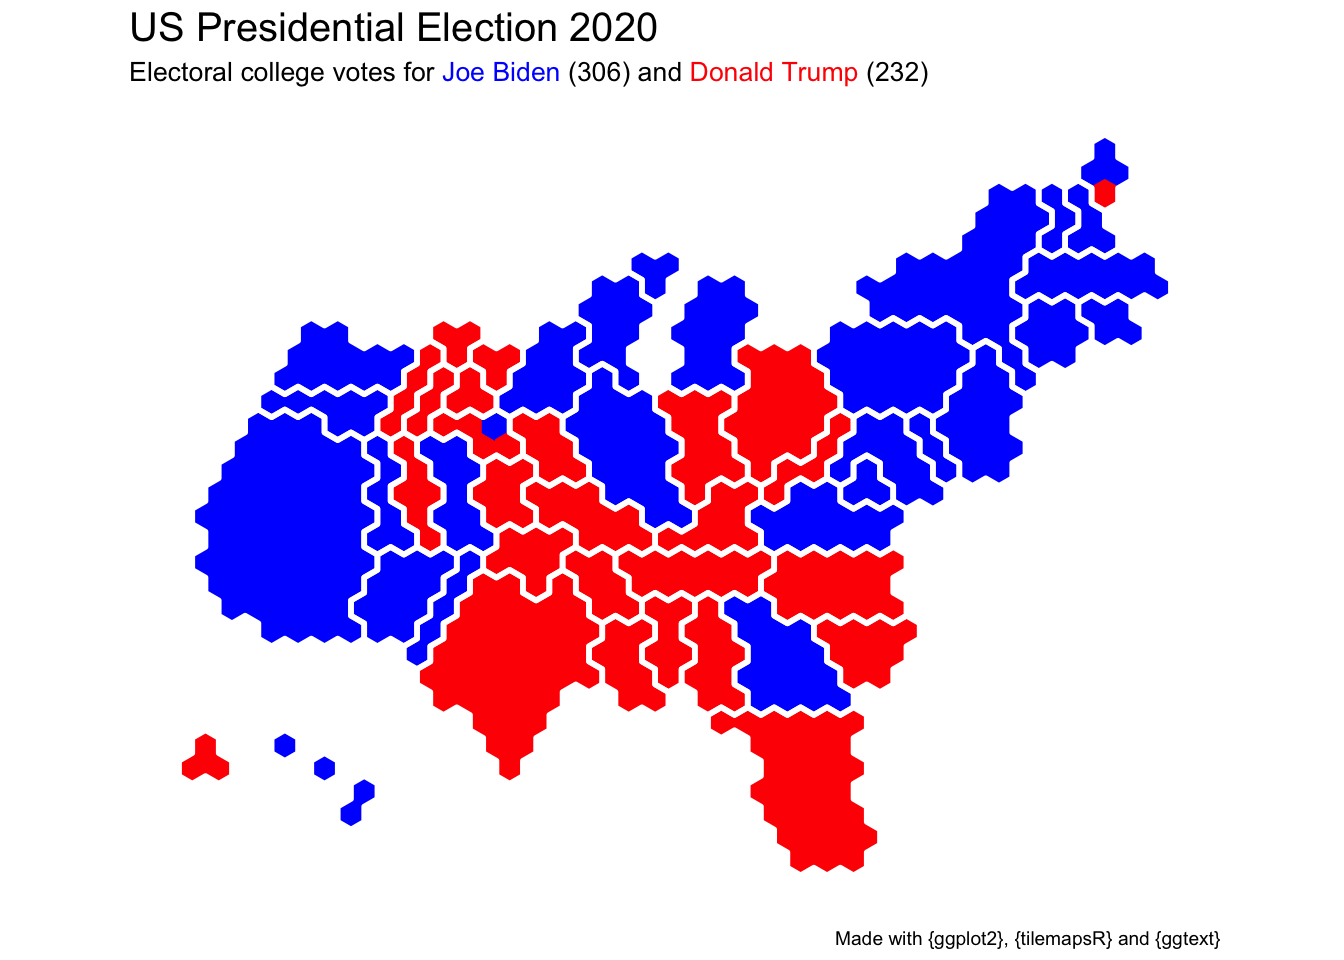
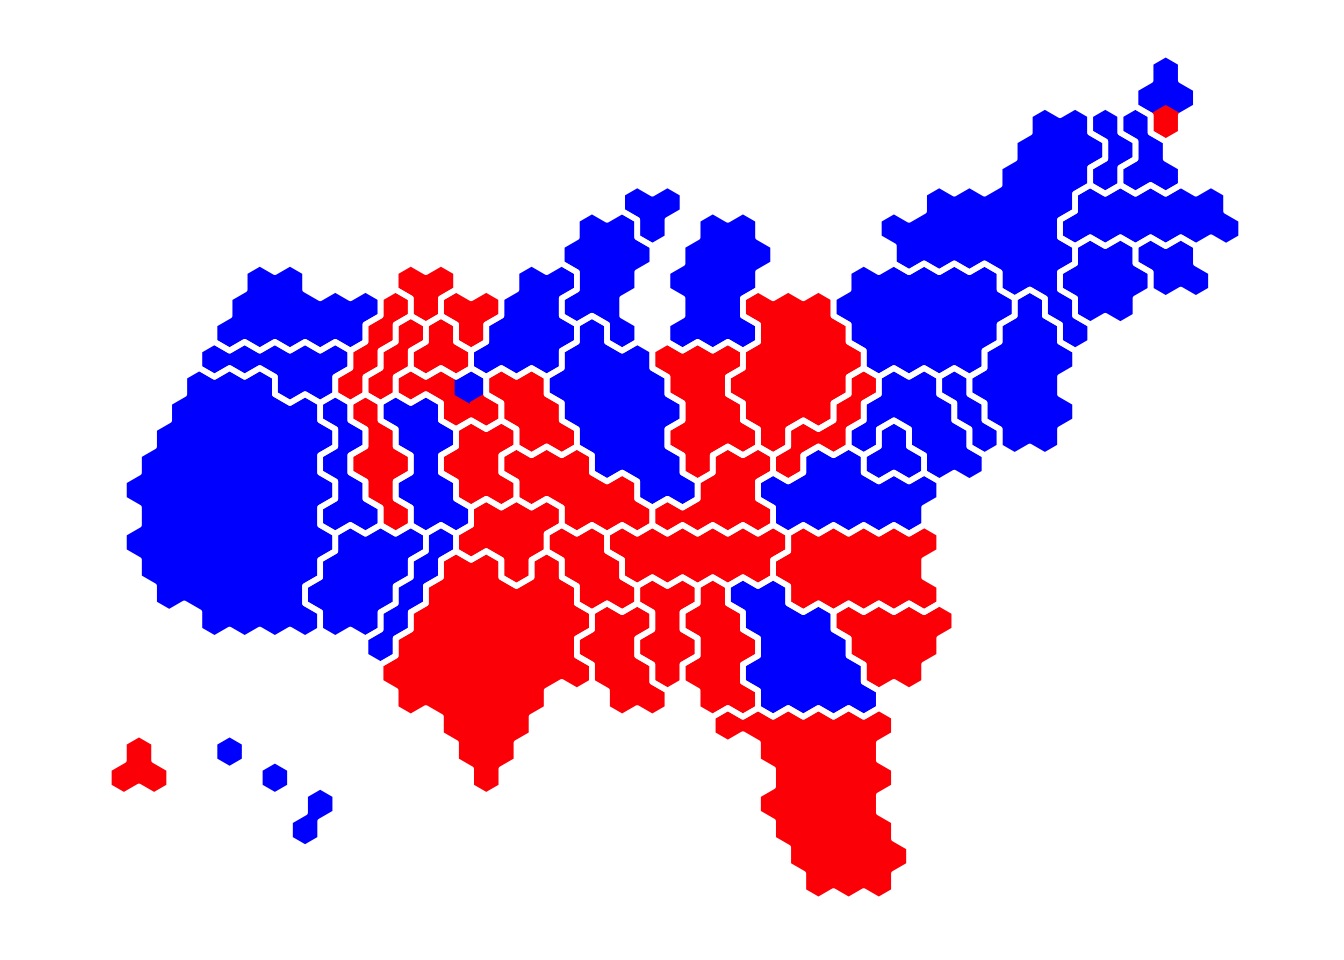
Add/reflow info in tilegrams post

diff --git a/content/post/2020-11-21-president-tilemap.html b/content/post/2020-11-21-president-tilemap.html
@@ -1,5 +1,5 @@
 ---
-title: 'US presidential election 2020 with {tilegramsR}'
+title: 'The US electoral college with {tilegramsR}'
 author: Matt Dray
 date: '2020-11-21'
 slug: president-tilegram
@@ -26,29 +26,36 @@ tags:
 </div>
 <div id="tldr" class="section level1">
 <h1>tl;dr</h1>
-<p><a href="https://bhaskarvk.github.io/tilegramsR/">The {tilegramsR} package</a> contains a tilegram object with a separate tile for each elector in <a href="https://en.wikipedia.org/wiki/United_States_Electoral_College">the US electoral college</a>. I amended it for states that use the <a href="https://www.fairvote.org/maine_nebraska">congressional district method</a> and generated a minimalist map of the results for the 2020 US presidential election.</p>
+<p><a href="https://bhaskarvk.github.io/tilegramsR/">The {tilegramsR} package</a> for R contains a geospatial object for mapping <a href="https://en.wikipedia.org/wiki/United_States_Electoral_College">the US electoral college</a>. I amended it for states that use the <a href="https://www.fairvote.org/maine_nebraska">congressional district method</a> and generated a minimalist map of the results for the 2020 US presidential election.<a href="#fn1" class="footnote-ref" id="fnref1"><sup>1</sup></a></p>
+</div>
+<div id="send-a-cartogram" class="section level1">
+<h1>Send a cartogram</h1>
+<p>It’s usually best to scale subnational divisions by voter count when visualising election results. This is because election outcomes are decided by people, not land area. <a href="https://en.wikipedia.org/wiki/Cartogram">Cartograms</a> are a good choice for this: they’re maps where geographic units are resized according to something other than area.</p>
+<p>One format of the cartogram is the tilegram. Tilegrams disregard the shape of the geographic units entirely and represent them with uniformly-shaped ‘tiles’ instead. Squares are often used, but hexagons give you a bit more freedom to pack the units and approximate geographic location. <a href="https://www.youtube.com/watch?v=thOifuHs6eY">Hexagons are the bestagons</a>, after all.</p>
+<p>A tilegram may end up looking strange if you’re used to looking at Mercator-projected maps, but it’s a better reflection of relative voter contribution.</p>
 </div>
 <div id="back-to-college" class="section level1">
 <h1>Back to college</h1>
-<p>It’s best to scale subnational divisions by voter count when visualising election results. This is because election outcomes are decided by people, not land area.</p>
-<p>The US presidential election is a special case because vote counts don’t directly elect a leader. Instead there’s <a href="https://en.wikipedia.org/wiki/United_States_Electoral_College">an ‘electoral college’ system</a>. Put extremely simply, each state has a number of representatives (‘electors’) that are sent to vote for the candidate that got the majority vote share in their state. The winning national candidate has the majority (270) of state electors declaring for them.</p>
-<p>So, we should scale maps of US presidential election results by electoral college contribution, not a direct count of the citizens that voted.</p>
+<p>So we could make a tilegram of the recent US presidential election with a separate shape for each state. Right? Well, yeah, but there’s a better way.</p>
+<p>The US presidential election is special because the total vote count doesn’t directly elect the leader. Instead there’s <a href="https://en.wikipedia.org/wiki/United_States_Electoral_College">an ‘electoral college’ system</a>. Put extremely simply, each state has a number of representatives (‘electors’) that are sent to vote for the candidate that got the majority vote share in their state. The winning national candidate has the majority of state electors declaring for them (270 of 538).</p>
+<p>So it’s electors, not states, that should be represented by each unit in a tilegram of US presidential election results.</p>
 </div>
-<div id="hexageometry" class="section level1">
-<h1>Hexageometry</h1>
-<p><a href="https://en.wikipedia.org/wiki/Cartogram">Cartograms</a> are maps where the geographic entities are resized according to something other than area. This can be good for visualising election results because subnational divisions can be sized by population.</p>
-<p>A simplification of this is a tilegram, which disregards the shape of the geographic entities entirely and represents them with uniform shapes instead. The tiles could be squares, but hexagons give you a bit more freedom to approximate geographic location. <a href="https://www.youtube.com/watch?v=thOifuHs6eY">Hexagons are the bestagons</a>, after all.</p>
-<p>Fortunately, <a href="https://bhaskarvk.github.io/tilegramsR/">the {tilegramsR} package by Bhaskar V. Karambelkar</a> has an <code>sf_FiveThirtyEightElectoralCollege</code> object that contains tilegram data for the US where each state is represented by one hexagon per electoral college vote. It’s <a href="https://r-spatial.github.io/sf/">an sf-class object</a>, which means it contains tidy geospatial information: each row is an elector, with a column for the state abbreviation and a column for the hexagon geometries.</p>
-<p>The object was created and named for the tilegrams by <a href="https://fivethirtyeight.com/">fivethirtyeight</a>, a company named after the total count of electors in the US electoral college.</p>
+<div id="tile-style" class="section level1">
+<h1>Tile style</h1>
+<p>Fortunately for us, <a href="https://bhaskarvk.github.io/tilegramsR/">the {tilegramsR} package by Bhaskar V. Karambelkar</a> has an <code>sf_FiveThirtyEightElectoralCollege</code><a href="#fn2" class="footnote-ref" id="fnref2"><sup>2</sup></a> object that contains tilegram data for the US where each elector is represented by one hexagon.</p>
+<p>It’s <a href="https://r-spatial.github.io/sf/">an sf-class object</a>, which means it contains tidy geospatial information: each row is an elector, with a column for the state abbreviation and a column for the hexagon geometries.</p>
 <p>Before we take a look, let’s load the packages used in this post.</p>
-<pre class="r"><code>library(dplyr)  # data manipulation
-library(stringr)  # string manipulation
+<pre class="r"><code># Data wrangling
+library(dplyr)       # data manipulation
+library(stringr)     # string manipulation
+
+# Mapping
 library(tilegramsR)  # tilegram objects
-library(ggplot2)  # plotting
-library(ggtext)  # text manipulation in plots
-library(ggthemes)  # has a map theme
-library(patchwork)  # organise plots</code></pre>
-<p>Here’s what that electoral college tilegram object looks like.</p>
+library(ggplot2)     # plotting
+library(ggtext)      # text rendering in plots
+library(ggthemes)    # has a map theme
+library(patchwork)   # organise plots</code></pre>
+<p>The default print method for sf-class objects shows us a few things. We can see there are 538 two-dimensional shapes: one for each elector. Note that this map is built in arbitrary space: the bounding box doesn’t reflect actual geography and there’s no coordinate reference system (CRS). The preview of the features shows us each row of the dataset with each state labelled with its abbreviation (CA is California, for example).</p>
 <pre class="r"><code>sf_FiveThirtyEightElectoralCollege</code></pre>
 <pre><code>## Simple feature collection with 538 features and 3 fields
 ## geometry type:  POLYGON
@@ -67,7 +74,7 @@ library(patchwork)  # organise plots</code></pre>
 ## 8   02    AK          3 POLYGON ((352.3486 237.3333...
 ## 9   06    CA         55 POLYGON ((411.0734 949.3333...
 ## 10  06    CA         55 POLYGON ((381.711 898.4762,...</code></pre>
-<p>Similarly, there’s an object called <code>sf_FiveThirtyEightElectoralCollege.states</code> that contains geometry to delineate state boundaries in the <code>sf_FiveThirtyEightElectoralCollege</code> object. We can combine these and look at a simple tilegram of the US electoral college using {ggplot2} and the special <code>geom_sf()</code> geom for visualising geospatial data stored in sf format.</p>
+<p>Similarly, there’s an object called <code>sf_FiveThirtyEightElectoralCollege.states</code> that contains geometry to delineate state boundaries in the <code>sf_FiveThirtyEightElectoralCollege</code> object. We can combine these and look at a quick tilegram of the US electoral college using {ggplot2} and the special <code>geom_sf()</code> geom for visualising geospatial data stored in sf format.</p>
 <pre class="r"><code>ggplot() + 
   geom_sf(data = sf_FiveThirtyEightElectoralCollege) + 
   geom_sf(
@@ -76,12 +83,14 @@ library(patchwork)  # organise plots</code></pre>
   ) + 
   theme_map()</code></pre>
 <p><img src="/post/2020-11-21-president-tilemap_files/figure-html/college-538-map-1.png" width="672" /></p>
-<p>Each elector is represented by a single hexagon and groups of hexagons are combined into states (thick outlines). Hexagons are placed roughly in the familiar shape of the US despite the change to the apparent area of each one. The non-contiguous regions in the lower left are Alaska (three electors) and Hawaii (four).</p>
+<p>You can see that each elector is represented by a single hexagon and groups of hexagons are combined into states (thick outlines). Hexagons are placed roughly in the familiar shape of the US despite the change to the apparent area of each one. The non-contiguous regions in the lower left are Alaska (three electors) and Hawaii (four).</p>
 </div>
-<div id="the-odd-ones-out" class="section level1">
-<h1>The odd ones out</h1>
-<p>In general, the winner of the popular vote within a state gains all the electors for that state. There are two exceptions: Nebraska (NE) and Maine (ME). These states use <a href="https://www.fairvote.org/maine_nebraska">the ‘congressional district method’</a>. The popular-vote winner wins two electors by default and the remaining electors are based on the winners of districts within the state (three in Nebraska and two in Maine). In other words, the electors from these states could be from more than one party.</p>
-<p>The <code>sf_FiveThirtyEightElectoralCollege</code> doesn’t account for the congressional district method, so we’ll have to build this in ourselves. We can isolate rows for Nebraska and Maine and then generate a <code>state_cdm</code> column to create distinct names for the districts, which we’ll number sequentially.</p>
+<div id="district-structure-strictures" class="section level1">
+<h1>District-structure strictures</h1>
+<p>In general, the winner of the popular vote within a state gains all the electors for that state. There are two exceptions: Nebraska (NE) and Maine (ME). These states use <a href="https://www.fairvote.org/maine_nebraska">the ‘congressional district method’</a>.</p>
+<p>The popular-vote winner gets two electors by default and the remaining electors are won by the winner of the popular vote in each district (three in Nebraska and two in Maine). In other words, the electors from these states could be from more than one party.</p>
+<p>This is sometimes represented in electoral college maps by colouring Nebraska and Maine with stripes of with each party’s colour. We can avoid that suboptimal representation with a tilegram because we can individually colour our tiles.</p>
+<p>Unfortunately, the <code>sf_FiveThirtyEightElectoralCollege</code> doesn’t account for the congressional district method, so we’ll have to build this in ourselves. We can isolate rows for Nebraska and Maine and then generate a new column to create distinct names for the districts, which we’ll number sequentially.</p>
 <pre class="r"><code># Isolate/update states with the congressional district method
 cdm_sf &lt;- sf_FiveThirtyEightElectoralCollege %&gt;% 
   filter(state %in% c(&quot;NE&quot;, &quot;ME&quot;)) %&gt;% 
@@ -90,7 +99,8 @@ cdm_sf &lt;- sf_FiveThirtyEightElectoralCollege %&gt;%
       &quot;NE&quot;, &quot;NE&quot;, &quot;NE1&quot;, &quot;NE2&quot;, &quot;NE3&quot;, 
       &quot;ME&quot;, &quot;ME&quot;, &quot;ME1&quot;, &quot;ME2&quot;
     )
-  )
+  ) %&gt;% 
+  select(state, state_cdm, everything())
 
 # Preview
 cdm_sf</code></pre>
@@ -99,27 +109,28 @@ cdm_sf</code></pre>
 ## dimension:      XY
 ## bbox:           xmin: 851.5092 ymin: 932.381 xmax: 2407.716 ymax: 1661.333
 ## CRS:            NA
-##   FID state tilegramVa                       geometry state_cdm
-## 1  31    NE          5 POLYGON ((851.5092 1000.19,...        NE
-## 2  31    NE          5 POLYGON ((910.2339 1000.19,...        NE
-## 3  31    NE          5 POLYGON ((939.5963 949.3333...       NE1
-## 4  31    NE          5 POLYGON ((968.9587 1000.19,...       NE2
-## 5  31    NE          5 POLYGON ((998.3211 949.3333...       NE3
-## 6  23    ME          4 POLYGON ((2290.266 1559.619...        ME
-## 7  23    ME          4 POLYGON ((2319.628 1610.476...        ME
-## 8  23    ME          4 POLYGON ((2348.991 1559.619...       ME1
-## 9  23    ME          4 POLYGON ((2319.628 1508.762...       ME2</code></pre>
+##   state state_cdm FID tilegramVa                       geometry
+## 1    NE        NE  31          5 POLYGON ((851.5092 1000.19,...
+## 2    NE        NE  31          5 POLYGON ((910.2339 1000.19,...
+## 3    NE       NE1  31          5 POLYGON ((939.5963 949.3333...
+## 4    NE       NE2  31          5 POLYGON ((968.9587 1000.19,...
+## 5    NE       NE3  31          5 POLYGON ((998.3211 949.3333...
+## 6    ME        ME  23          4 POLYGON ((2290.266 1559.619...
+## 7    ME        ME  23          4 POLYGON ((2319.628 1610.476...
+## 8    ME       ME1  23          4 POLYGON ((2348.991 1559.619...
+## 9    ME       ME2  23          4 POLYGON ((2319.628 1508.762...</code></pre>
+<p>You can see that we’ve retained the original <code>state</code> column and now also have a <code>state_cdm</code> column that contains tiles named by district.</p>
 <p>Now we can replace the data for these states in our original sf-class object.</p>
 <pre class="r"><code># Update the original object with the new information
 f38_cdm_sf &lt;- sf_FiveThirtyEightElectoralCollege %&gt;% 
-  mutate(state_cdm = state) %&gt;% 
-  filter(!state %in% c(&quot;ME&quot;, &quot;NE&quot;)) %&gt;% 
-  bind_rows(cdm_sf)</code></pre>
-<p>I think it’s more satisfying to end up colouring individual districts within these states by the winning candidate, rather than colouring the whole state in some shade of purple of with red and blue stripes.</p>
+  mutate(state_cdm = state) %&gt;%  # generate column
+  filter(!state %in% c(&quot;ME&quot;, &quot;NE&quot;)) %&gt;%  # remove old NE and ME
+  bind_rows(cdm_sf) %&gt;% # bind updated NE and ME 
+  select(state, state_cdm, everything())  # relocate cols</code></pre>
 </div>
-<div id="states-declared" class="section level1">
-<h1>States declared</h1>
-<p>We have our geospatial information sorted; now to create vectors of the states won by each candidate as declared by <a href="https://blog.ap.org/behind-the-news/understanding-the-election-how-ap-declares-winners">the Associated Press (AP)</a>.</p>
+<div id="party-time" class="section level1">
+<h1>Party time</h1>
+<p>We have our geospatial information sorted; now to create vectors of the states won by each candidate as declared by <a href="https://blog.ap.org/behind-the-news/understanding-the-election-how-ap-declares-winners">the Associated Press (AP)</a> at time of writing.</p>
 <pre class="r"><code># Vector of states/districts won by Democrat candidate
 d_states &lt;- c(
   &quot;AZ&quot;, &quot;CA&quot;, &quot;CO&quot;, &quot;CT&quot;, &quot;DC&quot;, &quot;DE&quot;, &quot;GA&quot;, &quot;HI&quot;,
@@ -135,7 +146,7 @@ r_states &lt;- c(
   &quot;NE&quot;, &quot;NE1&quot;, &quot;NE3&quot;, &quot;OH&quot;, &quot;OK&quot;, &quot;SC&quot;, &quot;SD&quot;, &quot;TN&quot;,
   &quot;TX&quot;, &quot;UT&quot;, &quot;WV&quot;, &quot;WY&quot;
 )</code></pre>
-<p>With this information we can add a couple of columns to our geospatial object: <code>result</code> to indicate a <code>D</code>emocrat or <code>R</code>epublican winner, and the symbolic <code>colour</code> of the party (blue for Democrat and red for Republican).</p>
+<p>With this information we can add a couple of columns to our geospatial object: <code>result</code> to indicate a <code>D</code>emocrat or <code>R</code>epublican winner, and the symbolic <code>colour</code> of the party (blue for Democrat and red for Republican). We’ll refer to this colour column in the plot so we can colour the tiles correctly.</p>
 <pre class="r"><code># Mark districts with winning party and provide colour
 results_sf &lt;- f38_cdm_sf %&gt;% 
   mutate(
@@ -147,7 +158,8 @@ results_sf &lt;- f38_cdm_sf %&gt;%
       result == &quot;D&quot; ~ &quot;#0000FF&quot;,  # blue
       result == &quot;R&quot; ~ &quot;#FF0000&quot;   # red
     )
-  )
+  ) %&gt;% 
+  select(state, state_cdm, result, colour, everything())
 
 # Preview
 results_sf</code></pre>
@@ -157,24 +169,24 @@ results_sf</code></pre>
 ## bbox:           xmin: 293.6239 ymin: 16.95238 xmax: 2495.803 ymax: 1661.333
 ## CRS:            NA
 ## First 10 features:
-##    FID state tilegramVa state_cdm                       geometry result  colour
-## 1   02    AK          3        AK POLYGON ((293.6239 237.3333...      R #FF0000
-## 2   06    CA         55        CA POLYGON ((352.3486 847.619,...      D #0000FF
-## 3   06    CA         55        CA POLYGON ((322.9862 796.7619...      D #0000FF
-## 4   06    CA         55        CA POLYGON ((352.3486 745.9048...      D #0000FF
-## 5   06    CA         55        CA POLYGON ((322.9862 695.0476...      D #0000FF
-## 6   06    CA         55        CA POLYGON ((352.3486 644.1905...      D #0000FF
-## 7   02    AK          3        AK POLYGON ((322.9862 288.1905...      R #FF0000
-## 8   02    AK          3        AK POLYGON ((352.3486 237.3333...      R #FF0000
-## 9   06    CA         55        CA POLYGON ((411.0734 949.3333...      D #0000FF
-## 10  06    CA         55        CA POLYGON ((381.711 898.4762,...      D #0000FF</code></pre>
+##    state state_cdm result  colour FID tilegramVa                       geometry
+## 1     AK        AK      R #FF0000  02          3 POLYGON ((293.6239 237.3333...
+## 2     CA        CA      D #0000FF  06         55 POLYGON ((352.3486 847.619,...
+## 3     CA        CA      D #0000FF  06         55 POLYGON ((322.9862 796.7619...
+## 4     CA        CA      D #0000FF  06         55 POLYGON ((352.3486 745.9048...
+## 5     CA        CA      D #0000FF  06         55 POLYGON ((322.9862 695.0476...
+## 6     CA        CA      D #0000FF  06         55 POLYGON ((352.3486 644.1905...
+## 7     AK        AK      R #FF0000  02          3 POLYGON ((322.9862 288.1905...
+## 8     AK        AK      R #FF0000  02          3 POLYGON ((352.3486 237.3333...
+## 9     CA        CA      D #0000FF  06         55 POLYGON ((411.0734 949.3333...
+## 10    CA        CA      D #0000FF  06         55 POLYGON ((381.711 898.4762,...</code></pre>
 </div>
-<div id="entilegramation" class="section level1">
-<h1>Entilegramation</h1>
+<div id="gram-them-tiles" class="section level1">
+<h1>Gram them tiles</h1>
 <p>The plot will be built from our sf-class object that has been edited for the congressional district method and contains the results; the state boundaries from <code>sf_FiveThirtyEightElectoralCollege.states</code>; and the title with coloured as a key matching the candidate’s party.</p>
 <p>Note that Nebraska (centre-left) and Maine (upper-right) are indeed coloured to represent more than one party, given the share of votes in their congressional district systems.</p>
-<pre class="r"><code># Plot results
-ggplot() +
+<pre class="r"><code># Build plot object
+p &lt;- ggplot() +
   geom_sf(  # layer containing district hexagons
     data = results_sf,
     fill = results_sf$colour,  # hex interiors
@@ -186,6 +198,13 @@ ggplot() +
     alpha = 0,  # transparent
     size = 1  # thickness
   ) +
+  theme_map() # remove non-data plot elements
+
+p  # plot it</code></pre>
+<p><img src="/post/2020-11-21-president-tilemap_files/figure-html/plot-1.png" width="672" /></p>
+<p>I think that’s quite pleasing.</p>
+<p>We can add some more contextual information with titles. In particular, we can use the text rendering of {ggtext} to create a subtitle with the candidates’ names coloured as a key to the map.</p>
+<pre class="r"><code>p +  # the original plot opbject
   labs(  # {ggtext} to colour names by party
     title = &quot;&lt;span style=&#39;font-size:15pt&#39;&gt;
     US Presidential Election 2020&quot;,
@@ -195,12 +214,11 @@ ggplot() +
     &lt;/span&gt;&quot;,
     caption = &quot;Made with {ggplot2}, {tilemapsR} and {ggtext}&quot;
   ) +
-  theme_map() +  # remove non-data plot elements
-  theme(
+    theme(
     plot.title = element_markdown(lineheight = 1.1),
     plot.subtitle = element_markdown(lineheight = 1.1)
   )</code></pre>
-<p><img src="/post/2020-11-21-president-tilemap_files/figure-html/plot-1.png" width="672" /></p>
+<p><img src="/post/2020-11-21-president-tilemap_files/figure-html/plot-no-title-1.png" width="672" /></p>
 </div>
 <div id="zoom-enhance" class="section level1">
 <h1>Zoom! Enhance!</h1>
@@ -222,7 +240,7 @@ plot_state &lt;- function(state_abbrev) {
       data = state_sf, aes(label = state_cdm),
       size = 5, color = &quot;white&quot;
     ) +
-    theme_void()
+    theme_map()
   
   # Provide a 
   if (state_abbrev == &quot;NE&quot;) {
@@ -247,13 +265,13 @@ plot_state(&quot;NE&quot;) + plot_state(&quot;ME&quot;)</code></pre>
 </div>
 <div id="other-solutions" class="section level1">
 <h1>Other solutions</h1>
-<p>You can find many, many examples of non-standard area-based maps used to display the presidential election results. For example, check out:</p>
+<p>You can find many, many examples of cartograms or other map types used to display the presidential election results. For example, check out:</p>
 <ul>
 <li><a href="https://www.wsj.com/election-results-2020/">The Wall Street Journal</a> has a square version of the hexagonal map in this post</li>
 <li><a href="https://ig.ft.com/us-election-2020/">The Financial Times</a> shows a regular map with each state’s electoral college contribution overlaid as squares</li>
 <li>The <a href="https://www.bbc.co.uk/news/election/us2020/results">BBC</a> and <a href="https://graphics.reuters.com/USA-ELECTION/RESULTS-LIVE-US/jbyprxelqpe/">Reuters</a> have a regular map with the option to switch to a cartogram with one square per state</li>
 </ul>
-<p>What’s your favourite method?</p>
+<p>Let me know if you seen any particularly good examples.</p>
 <hr />
 <details>
 <p><summary>Session info</summary></p>
@@ -267,7 +285,7 @@ plot_state(&quot;NE&quot;) + plot_state(&quot;ME&quot;)</code></pre>
 ##  collate  en_GB.UTF-8                 
 ##  ctype    en_GB.UTF-8                 
 ##  tz       Europe/London               
-##  date     2020-11-21                  
+##  date     2020-11-22                  
 ## 
 ## ─ Packages ───────────────────────────────────────────────────────────────────
 ##  package     * version date       lib source                          
@@ -326,4 +344,11 @@ plot_state(&quot;NE&quot;) + plot_state(&quot;ME&quot;)</code></pre>
 ## 
 ## [1] /Library/Frameworks/R.framework/Versions/4.0/Resources/library</code></pre>
 </details>
+</div>
+<div class="footnotes">
+<hr />
+<ol>
+<li id="fn1"><p>Disclaimer: I am not a US citizen.<a href="#fnref1" class="footnote-back">↩</a></p></li>
+<li id="fn2"><p>The object was created and named for the tilegrams by <a href="https://fivethirtyeight.com/">fivethirtyeight</a>, a company named after the total count of electors in the US electoral college.<a href="#fnref2" class="footnote-back">↩</a></p></li>
+</ol>
 </div>

diff --git a/public/index.html b/public/index.html
@@ -58,7 +58,7 @@
     <h2 class="archive-title">2020</h2>
     
     <article class="archive-item">
-      <a href="/2020/11/21/president-tilegram/" class="archive-item-link">US presidential election 2020 with {tilegramsR}</a>
+      <a href="/2020/11/21/president-tilegram/" class="archive-item-link">The US electoral college with {tilegramsR}</a>
       <span class="archive-item-date">
         2020-11-21
       </span>

diff --git a/public/post/index.html b/public/post/index.html
@@ -57,7 +57,7 @@
     <h2 class="archive-title">2020</h2>
     
     <article class="archive-item">
-      <a href="/2020/11/21/president-tilegram/" class="archive-item-link">US presidential election 2020 with {tilegramsR}</a>
+      <a href="/2020/11/21/president-tilegram/" class="archive-item-link">The US electoral college with {tilegramsR}</a>
       <span class="archive-item-date">
         2020-11-21
       </span>
